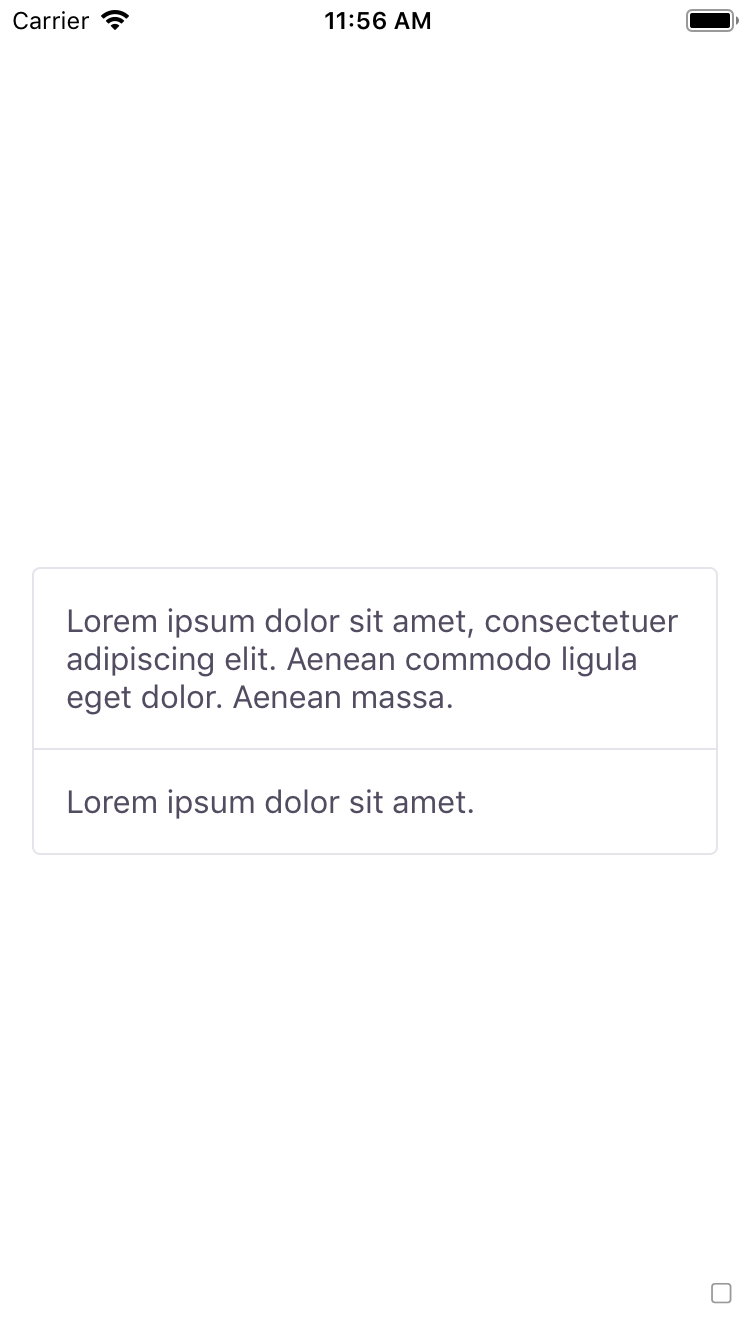
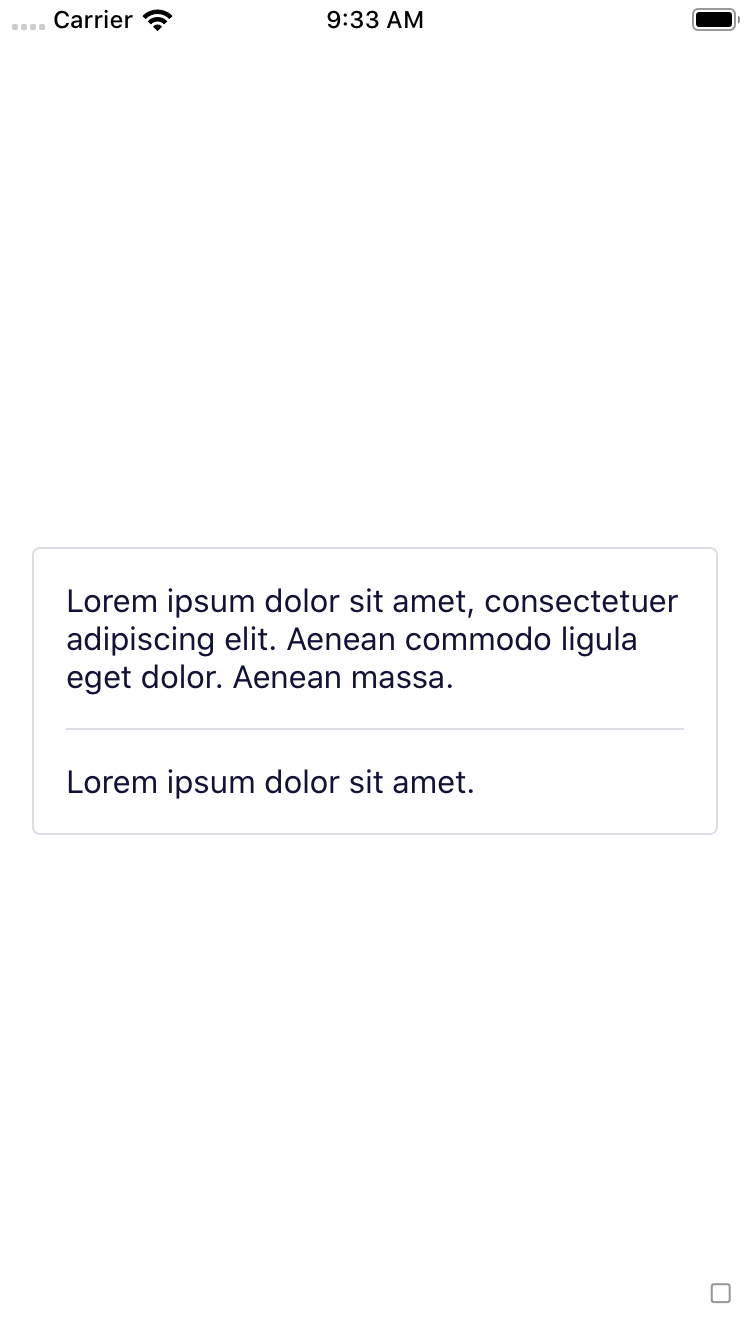
[BPK-3237] Add dark mode support to panel (#299)

diff --git a/packages/react-native-bpk-component-panel/src/withDivider.js b/packages/react-native-bpk-component-panel/src/withDivider.js
@@ -20,15 +20,20 @@
 
 import PropTypes from 'prop-types';
 import React, { type ComponentType, type Node } from 'react';
-import { View, StyleSheet, ViewPropTypes } from 'react-native';
+import { View, ViewPropTypes } from 'react-native';
 import {
   colorSkyGrayTint06,
+  lineDarkColor,
   spacingBase,
 } from 'bpk-tokens/tokens/base.react.native';
+import {
+  BpkDynamicStyleSheet,
+  useBpkDynamicStyleSheet,
+} from 'react-native-bpk-appearance';
 
 import BpkPanel, { type Props as BpkPanelProps } from './BpkPanel';
 
-const styles = StyleSheet.create({
+const dynamicStyles = BpkDynamicStyleSheet.create({
   panel: {
     flexDirection: 'row',
   },
@@ -43,12 +48,15 @@ const styles = StyleSheet.create({
     flex: null,
   },
   panelMainPadded: {
-    padding: spacingBase,
+    paddingRight: spacingBase,
+  },
+  panelMainPaddedVertical: {
+    paddingBottom: spacingBase,
   },
   panelPunchline: {
     width: 1, // eslint-disable-line backpack/use-tokens
     flexDirection: 'column',
-    backgroundColor: colorSkyGrayTint06,
+    backgroundColor: { light: colorSkyGrayTint06, dark: lineDarkColor },
   },
   panelPunchlineVertical: {
     width: null,
@@ -63,7 +71,10 @@ const styles = StyleSheet.create({
     flex: null,
   },
   panelStubPadded: {
-    padding: spacingBase,
+    paddingLeft: spacingBase,
+  },
+  panelStubPaddedVertical: {
+    paddingTop: spacingBase,
   },
 });
 
@@ -88,14 +99,19 @@ const withDivider = (PanelComponent: ComponentType<BpkPanelProps>) => {
       ...rest
     } = props;
 
+    const styles = useBpkDynamicStyleSheet(dynamicStyles);
     const panelStyle = [styles.panel];
     const mainStyle = [styles.panelMain];
     const punchlineStyle = [styles.panelPunchline];
     const stubStyle = [styles.panelStub];
 
     if (padded) {
-      mainStyle.push(styles.panelMainPadded);
-      stubStyle.push(styles.panelStubPadded);
+      mainStyle.push(
+        vertical ? styles.panelMainPaddedVertical : styles.panelMainPadded,
+      );
+      stubStyle.push(
+        vertical ? styles.panelStubPaddedVertical : styles.panelStubPadded,
+      );
     }
     if (vertical) {
       panelStyle.push(styles.panelVertical);

diff --git a/packages/react-native-bpk-component-panel/src/BpkPanel.js b/packages/react-native-bpk-component-panel/src/BpkPanel.js
@@ -21,20 +21,25 @@
 import React, { type Node } from 'react';
 import PropTypes from 'prop-types';
 import {
+  backgroundSecondaryDarkColor,
   colorWhite,
   colorSkyGrayTint06,
   spacingBase,
   borderSizeSm,
   borderRadiusSm,
 } from 'bpk-tokens/tokens/base.react.native';
-import { StyleSheet, View, ViewPropTypes } from 'react-native';
+import { View, ViewPropTypes } from 'react-native';
+import {
+  BpkDynamicStyleSheet,
+  useBpkDynamicStyleSheet,
+} from 'react-native-bpk-appearance';
 
-const styles = StyleSheet.create({
+const dynamicStyles = BpkDynamicStyleSheet.create({
   panel: {
-    backgroundColor: colorWhite,
+    backgroundColor: { light: colorWhite, dark: backgroundSecondaryDarkColor },
     borderRadius: borderRadiusSm,
-    borderWidth: borderSizeSm,
-    borderColor: colorSkyGrayTint06,
+    borderWidth: { light: borderSizeSm, dark: 0 },
+    borderColor: { light: colorSkyGrayTint06, dark: null },
   },
   panelPadded: {
     padding: spacingBase,
@@ -50,6 +55,7 @@ export type Props = {
 const BpkPanel = (props: Props) => {
   const { padded, children, style, ...rest } = props;
 
+  const styles = useBpkDynamicStyleSheet(dynamicStyles);
   const panelStyle = [styles.panel];
 
   if (padded) {

diff --git a/packages/react-native-bpk-component-panel/src/withDivider-test.common.js b/packages/react-native-bpk-component-panel/src/withDivider-test.common.js
@@ -22,6 +22,7 @@ import React from 'react';
 import { StyleSheet } from 'react-native';
 import renderer from 'react-test-renderer';
 import BpkText from 'react-native-bpk-component-text';
+import { describeEachColorScheme } from 'react-native-bpk-test-utils';
 
 import BpkPanel from './BpkPanel';
 import withDivider from './withDivider';
@@ -38,14 +39,14 @@ const commonTests = () => {
       </BpkText>
     );
 
-    it('should render correctly', () => {
-      const tree = renderer
-        .create(
-          <BpkPanelWithDivider stub={content}>{content}</BpkPanelWithDivider>,
-        )
-        .toJSON();
+    describeEachColorScheme(BpkPanelWithDivider, WithColorScheme => {
+      it('should render correctly', () => {
+        const tree = renderer
+          .create(<WithColorScheme stub={content}>{content}</WithColorScheme>)
+          .toJSON();
 
-      expect(tree).toMatchSnapshot();
+        expect(tree).toMatchSnapshot();
+      });
     });
 
     it('should render correctly without padding', () => {

diff --git a/packages/react-native-bpk-component-panel/src/BpkPanel-test.common.js b/packages/react-native-bpk-component-panel/src/BpkPanel-test.common.js
@@ -22,6 +22,7 @@ import React from 'react';
 import { StyleSheet } from 'react-native';
 import renderer from 'react-test-renderer';
 import BpkText from 'react-native-bpk-component-text';
+import { describeEachColorScheme } from 'react-native-bpk-test-utils';
 
 import BpkPanel from './BpkPanel';
 
@@ -35,10 +36,14 @@ const commonTests = () => {
       </BpkText>
     );
 
-    it('should render correctly', () => {
-      const tree = renderer.create(<BpkPanel>{content}</BpkPanel>).toJSON();
+    describeEachColorScheme(BpkPanel, WithColorScheme => {
+      it('should render correctly', () => {
+        const tree = renderer
+          .create(<WithColorScheme>{content}</WithColorScheme>)
+          .toJSON();
 
-      expect(tree).toMatchSnapshot();
+        expect(tree).toMatchSnapshot();
+      });
     });
 
     it('should render correctly without padding', () => {

diff --git a/UNRELEASED.md b/UNRELEASED.md
@@ -1,9 +1,14 @@
 # Unreleased
 
 > Place your changes below this line.
-**Fixed:**
- - react-native-bpk-component-spinner:
-   - Fix appearance of the primary spinner in dark mode.
+
+**Added:**
+
+- react-native-bpk-component-panel:
+  - Added dark mode support.
+
+- react-native-bpk-component-spinner:
+  - Added dark mode support.
 
 ## How to write a good changelog entry
 
